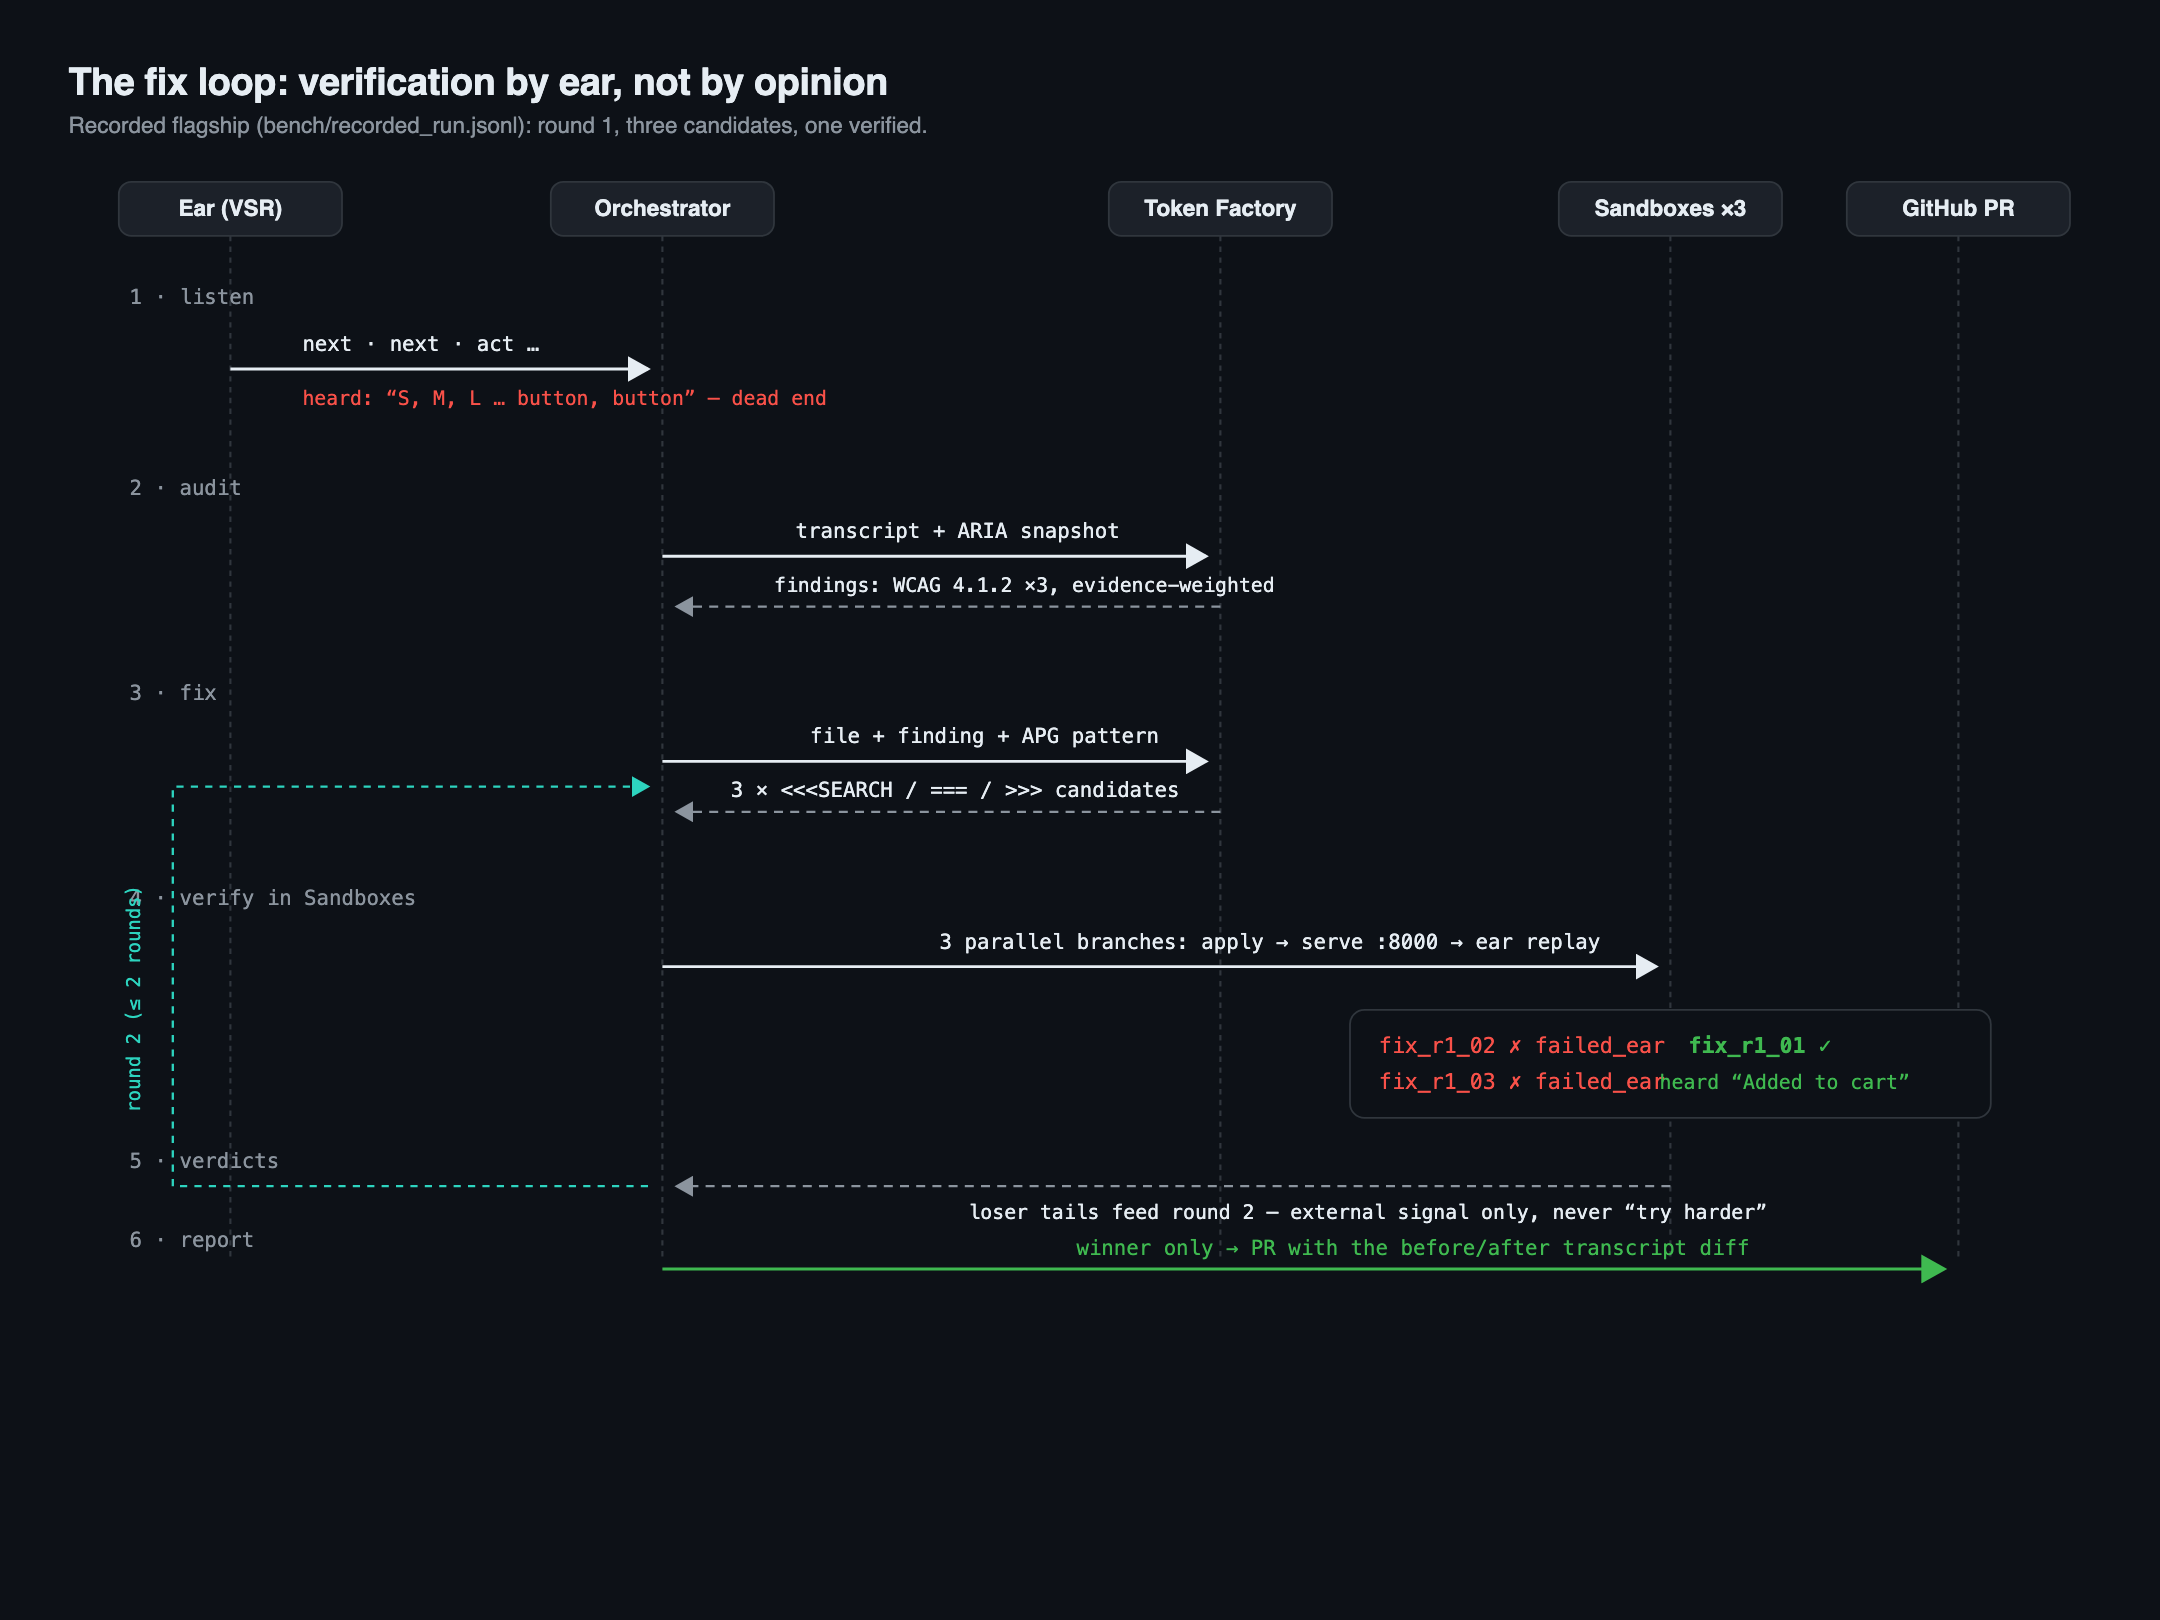
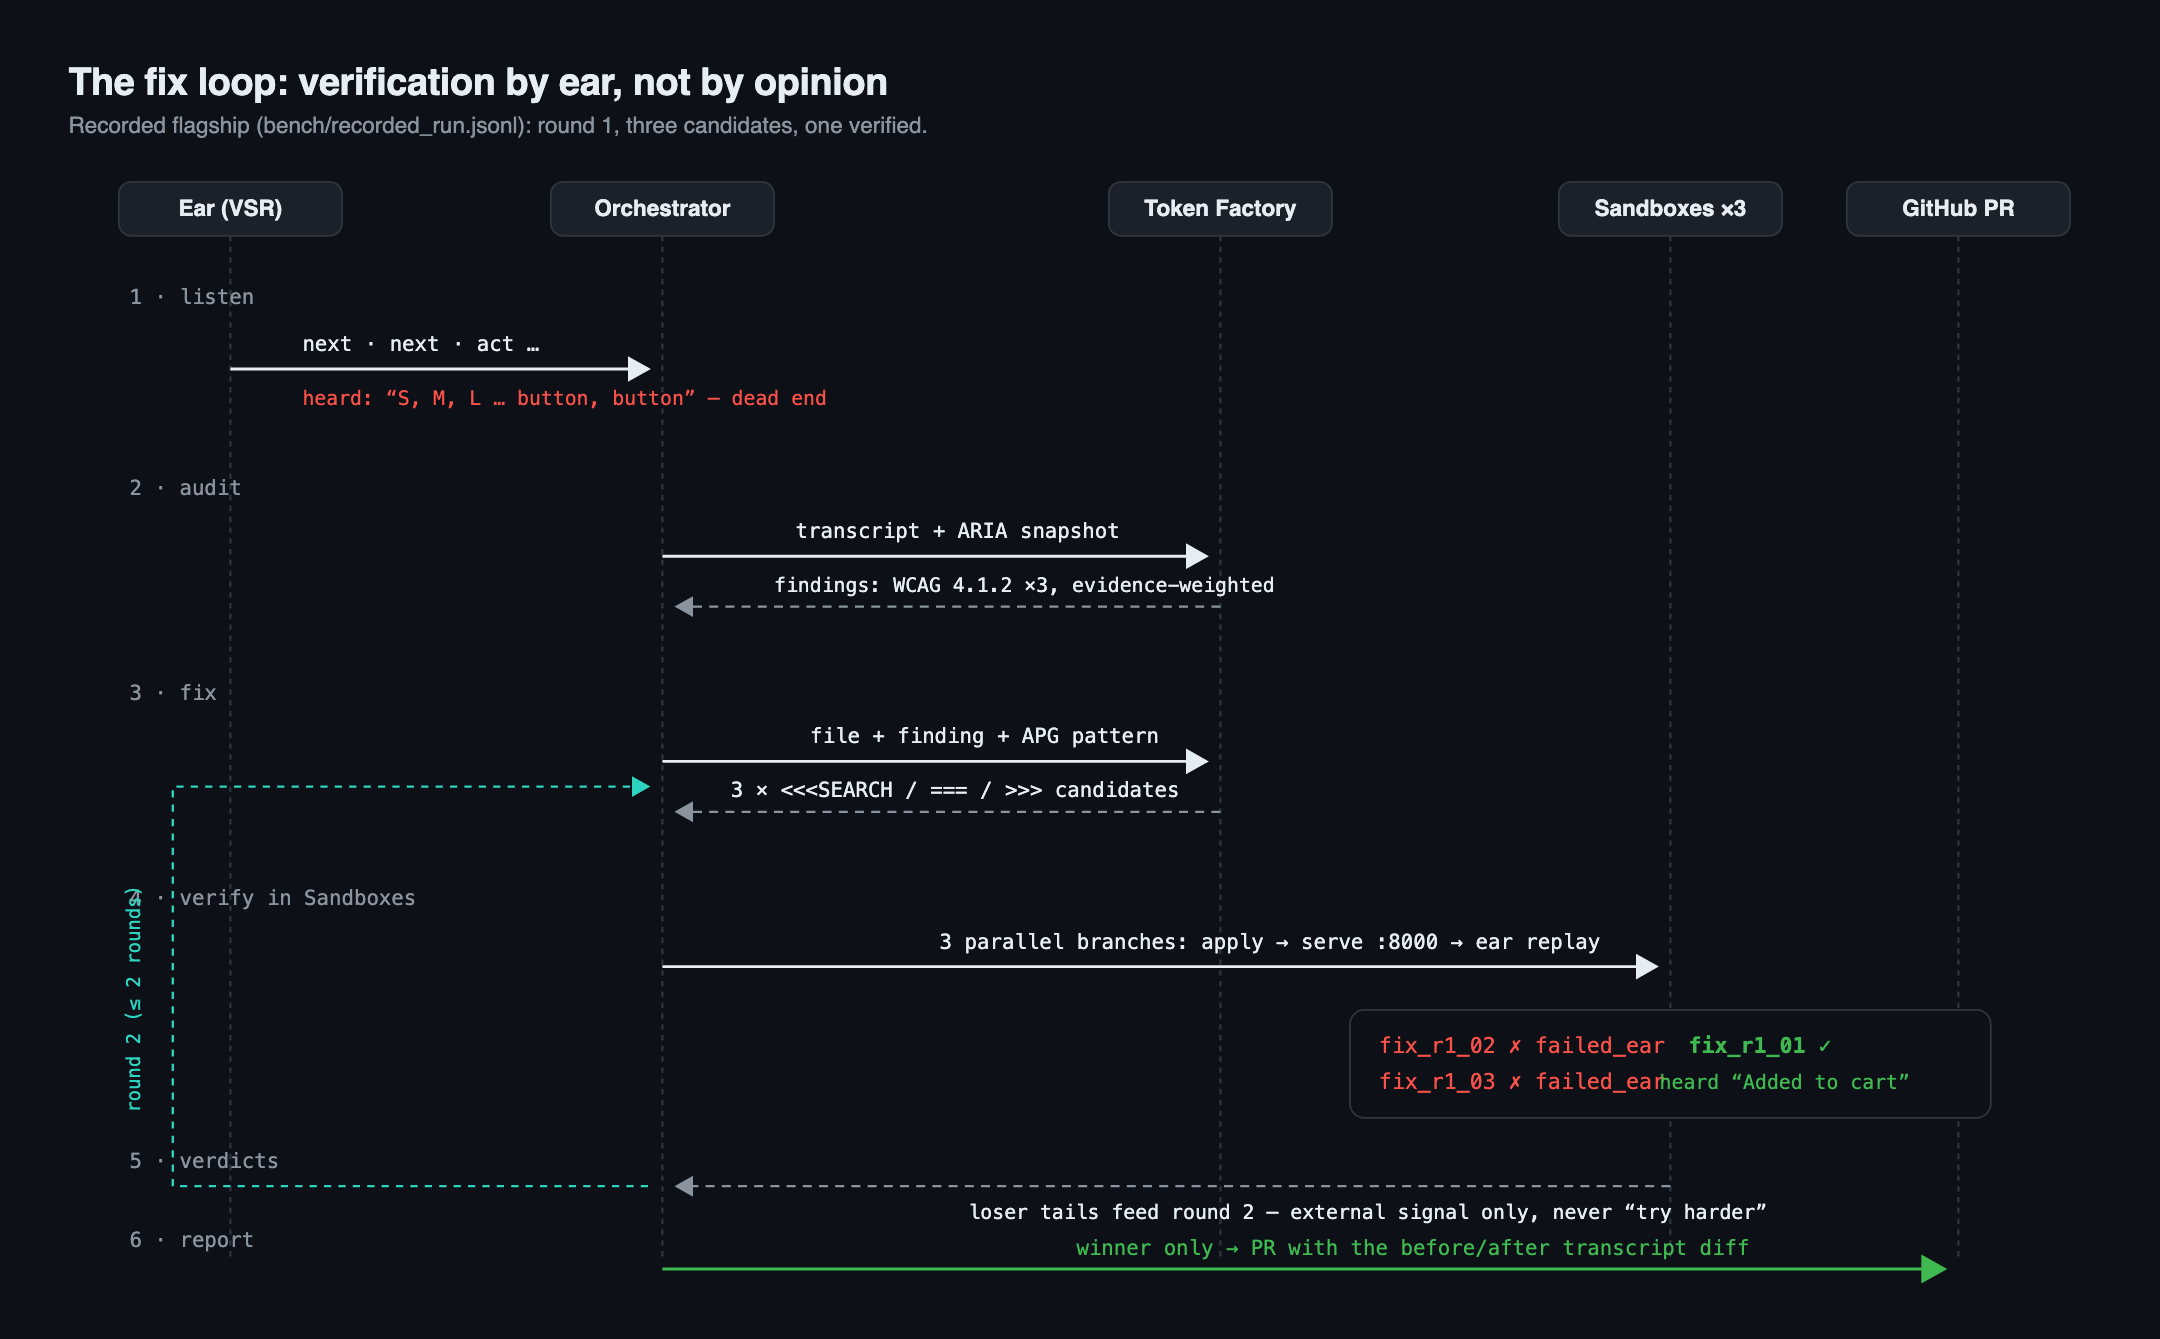
fix(diagrams): clip captures to content — body element screenshot
full_page is max(scroll, viewport): the 356px-tall architecture diagram
padded out to 900px of empty canvas (black in dark mode, per review).
Element screenshot of <body> clips exactly; 2160x641 now.

diff --git a/docs/diagrams/make_diagrams.py b/docs/diagrams/make_diagrams.py
@@ -256,7 +256,10 @@ async def render(theme: str, body: str, name: str) -> None:
         )
         w = await page.evaluate("() => document.body.scrollWidth")
         h = await page.evaluate("() => document.body.scrollHeight")
-        await page.screenshot(path=str(OUT / f"{name}-{theme}.png"), full_page=True)
+        # element screenshot of <body>: clips exactly to content. full_page is
+        # max(scroll, viewport) — anything shorter than 900px padded with empty
+        # canvas (looked like a half-black image in dark mode)
+        await page.locator("body").screenshot(path=str(OUT / f"{name}-{theme}.png"))
         await browser.close()
         print(f"{name}-{theme}.png  {w}x{h} css-px  overflow={overflow > 2}")
 
